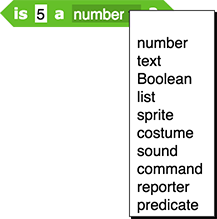
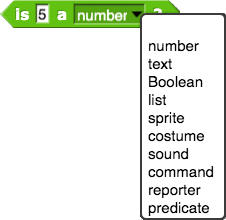
2.2 - new draft

Changed region(s): [[0.0, 0.0, 1.0, 1.0]]

diff --git a/cur/programming/2-complexity/2-data-structures-art/2-quizzes.html b/cur/programming/2-complexity/2-data-structures-art/2-quizzes.html
@@ -11,41 +11,100 @@
 
 	<body>
         <h2>Planning a Quiz App</h2>
-        <div class="todo">Alternative title: "Listing Questions and Answers for a Quiz App" --MF, 4/15/19</div>
         <div class="learn">
-            <p><strong>On this page,</strong> you will begin to develop a quiz app by creating a structure to pair the questions with their answers.</p>
+            <p><strong>On this page,</strong> you will begin to develop a quiz app by creating an <em>abstract data type</em> to pair the questions with their answers.</p>
         </div>
         
         <div class="forYouToDo" id="first">
 			<ol>
-                <li><img class="inline" src="/bjc-r/img/icons/talk-with-your-partner.png" alt="Talk with Your Partner" title="Talk with Your Partner" />
-Decide what type of quiz you would like to build, and write three to five questions and their correct answers.</li>
+                <li><img class="inline" src="/bjc-r/img/icons/talk-with-your-partner.png" alt="Talk with Your Partner" title="Talk with Your Partner" />Decide what type of quiz you would like to build, and write three to five questions and their correct answers.</li>
+                <li><img class="inline" src="/bjc-r/img/icons/take-turns-speaking-mini.gif" alt="Take turns speaking" title="Take turns speaking">Read the following section, opening all the links and carefully reading all the code as you go...</li>
 			</ol>
 		</div>
         
+        <div class="vocab">
+            <p>The <strong>index</strong> of an item in a list its unique position number in the list.</p>
+            <div class="todo">AAP-1.C.3 (partial). We address the part about strings on <a href="http://localhost/bjc-r/cur/programming/2-complexity/3-predicates/3-solving-word-puzzle.html?topic=nyc_bjc%2F2-conditionals-abstraction.topic&course=bjc4nyc.html&novideo&noassignment">2.3.3</a>. --MF, 12/19/18</div>
+        </div>
         <p>
-            You'll use a list to store your quiz items in a variable. You <em>could</em> just put all the questions and their answers in a list like this and then use <img src="/bjc-r/img/blocks/item-empty-full-size.png" height="35" alt="item () of 'list input slot'" title="item () of 'list input slot'"> to retrieve each question and answer:  <br />
-            <img class="indent" src="/bjc-r/img/2-complexity/quiz-questions-list.png" alt="set (computer science quiz) to (list (What is the computer science term for looping or repetition?) (iteration) (What is the name for the abstraction in a program that can hold a value?) (variable) (What kind of variable is available only in the part of the program where it is defined?) (local variable))" title="set (computer science quiz) to (list (What is the computer science term for looping or repetition?) (iteration) (What is the name for the abstraction in a program that can hold a value?) (variable) (What kind of variable is available only in the part of the program where it is defined?) (local variable))"><br />
+            You'll use a list to store your quiz items in a variable. You <em>could</em> just <a href="#hint-solidlist" data-toggle="collapse" title="put all the questions and their answers in a list like this">put all the questions and their answers in a list like this</a> and then use <img src="/bjc-r/img/blocks/item-empty-full-size.png" height="35" alt="item () of 'list input slot'" title="item () of 'list input slot'"> to retrieve each question and answer using its index.
+            <div id="hint-solidlist" class="collapse"><img class="indent" src="/bjc-r/img/2-complexity/quiz-questions-list.png" alt="set (computer science quiz) to (list (What is the computer science term for looping or repetition?) (iteration) (What is the name for the abstraction in a program that can hold a value?) (variable) (What kind of variable is available only in the part of the program where it is defined?) (local variable))" title="set (computer science quiz) to (list (What is the computer science term for looping or repetition?) (iteration) (What is the name for the abstraction in a program that can hold a value?) (variable) (What kind of variable is available only in the part of the program where it is defined?) (local variable))"></div>
             That might be ok for the first quiz item (you could use <img class="inline nopadtb" src="/bjc-r/img/2-complexity/item-1-of-csquiz.png" alt="item (1) of (computer science quiz)" title="item (1) of (computer science quiz)"> to get the first question and <img class="inline nopadtb" src="/bjc-r/img/2-complexity/item-2-of-csquiz.png" alt="item (2) of (computer science quiz)" title="item (2) of (computer science quiz)"> to get the first answer), but for the third quiz item, you'd need list items five and six, and that approach is inelegant and prone to errors.
         </p>
         <div class="vocab">: <strong>Sublist</strong> 
             <p>A <strong>sublist</strong> is a list inside another list.</p>
         </div>
         <p>
-            Instead, you can use a <em>sublist</em> for each question/answer pair. Then you could choose one of those lists at a time to work with.<br />
-            <img class="indent" src="/bjc-r/img/2-complexity/quiz-questions-list-of-lists.png" alt="set (computer science quiz) to (list (list (What is the computer science term for looping or repetition?) (iteration)) (list (What is the name for the abstraction in a program that can hold a value?) (variable)) (list (What kind of variable is available only in the part of the program where it is defined?) (local variable)))" title="set (computer science quiz) to (list (list (What is the computer science term for looping or repetition?) (iteration)) (list (What is the name for the abstraction in a program that can hold a value?) (variable)) (list (What kind of variable is available only in the part of the program where it is defined?) (local variable)))">
+            Instead, <a href="#hint-sublist" data-toggle="collapse" title="you can use a sublist for each question/answer pair">you can use a <em>sublist</em> for each question/answer pair</a>. Then you could choose just one of those lists at a time to work with.
+            <div id="hint-sublist" class="collapse">
+                <img class="indent" src="/bjc-r/img/2-complexity/quiz-questions-list-of-lists.png" alt="set (computer science quiz) to (list (list (What is the computer science term for looping or repetition?) (iteration)) (list (What is the name for the abstraction in a program that can hold a value?) (variable)) (list (What kind of variable is available only in the part of the program where it is defined?) (local variable)))" title="set (computer science quiz) to (list (list (What is the computer science term for looping or repetition?) (iteration)) (list (What is the name for the abstraction in a program that can hold a value?) (variable)) (list (What kind of variable is available only in the part of the program where it is defined?) (local variable)))">
+                <div class="comment">Image needs alt/title text. --MF, 7/3/19</div>
+                <img class="indent" src="/bjc-r/img/2-complexity/item-of-item-of-script.png" alt="" title="" />
+            </div>
         </p>
-        <div class="todo">Give them a snippet of code with ask and answer (but not foreach) and an item (item()) to sell that there is a better way.</div>
         <p>
-            This approach can be further improved with abstraction. You could create a custom block to make your code easier to read.<br />
-            <img class="indent" src="/bjc-r/img/2-complexity/quiz-questions-constructor-definition.png" alt="quiz item, question: (question) answer: (answer) {report (list (question) (answer))}" title="quiz item, question: (question) answer: (answer) {report (list (question) (answer))}">
-            <img class="indent" src="/bjc-r/img/2-complexity/quiz-questions-list-of-adts.png" alt="set (computer science quiz) to (list (question: (What is the computer science term for looping or repetition?) answer: (iteration)) (question: (What is the name for the abstraction in a program that can hold a value?) answer: (variable)) (question: (What kind of variable is available only in the part of the program where it is defined?) answer: (local variable)))" title="set (computer science quiz) to (list (question: (What is the computer science term for looping or repetition?) answer: (iteration)) (question: (What is the name for the abstraction in a program that can hold a value?) answer: (variable)) (question: (What kind of variable is available only in the part of the program where it is defined?) answer: (local variable)))">
+            But with nested lists (lists with sublists) it can be hard to keep track of the input numbers for <code>item of</code>, so <a href="#hint-useabstraction" data-toggle="collapse" title="a better way is to use abstraction to organize the quiz items">a better way is to <em>use abstraction</em> to organize the quiz items</a>. 
+            <div id="hint-useabstraction" class="collapse">
+                <img class="indent" src="/bjc-r/img/2-complexity/quiz-questions-list-of-adts.png" alt="set (computer science quiz) to (list (question: (What is the computer science term for looping or repetition?) answer: (iteration)) (question: (What is the name for the abstraction in a program that can hold a value?) answer: (variable)) (question: (What kind of variable is available only in the part of the program where it is defined?) answer: (local variable)))" title="set (computer science quiz) to (list (question: (What is the computer science term for looping or repetition?) answer: (iteration)) (question: (What is the name for the abstraction in a program that can hold a value?) answer: (variable)) (question: (What kind of variable is available only in the part of the program where it is defined?) answer: (local variable)))">
+                <div class="comment">Image needs alt/title text. --MF, 7/3/19</div>
+                <img class="indent" src="/bjc-r/img/2-complexity/abstracted-quiz-script.png" alt="" title="" />
+            </div>
         </p>
-    <div class="todo">The alt/title text on the second image just above needs attention. Also, should that image have fewer questions? --MF, 7/2/19</div>
-        <div class="todo">constructor makes it certain that every time you use it, you build the thing in the right order.</div>
+        <p>
+            These abstractions just hide the <code>list</code> and <code>item of</code> blocks, so they aren't complicated to build, but they can make your code <em>much</em> easier to write, read, and debug.<br />
+        </p>
+        <div class="vocabFullWidth">
+            <ul>
+                <li>
+                    The <img class="inline" src="/bjc-r/img/2-complexity/quiz-item-constructor.png" alt="quiz item, question: () answer: ()" title="quiz item, question: () answer: ()" /> block is the <strong>constructor</strong>; it <em>constructs</em> the data structure.<br />
+                    <img class="indent" src="/bjc-r/img/2-complexity/quiz-questions-constructor-definition.png" alt="quiz item, question: (question) answer: (answer) {report (list (question) (answer))}" title="quiz item, question: (question) answer: (answer) {report (list (question) (answer))}">
+                </li>
+                <li>
+                    The <img class="inline" src="/bjc-r/img/2-complexity/question-selector.png" alt="question from quiz item: ()" title="question from quiz item: ()"/> and <img class="inline" src="/bjc-r/img/2-complexity/answer-selector.png" alt="answer from quiz item: ()" title="answer from quiz item: ()"/> blocks are the <strong>selectors</strong>; they each <em>select</em> one piece of the data structure.<br />
+                    <img class="indent" src="/bjc-r/img/2-complexity/question-definition.png" alt="question from quiz item: (quiz item) {report (item (1) of (quiz item)}" title="question from quiz item: (quiz item) {report (item (1) of (quiz item)}" />
+                    <img class="indent" src="/bjc-r/img/2-complexity/answer-definition.png" alt="answer from quiz item: (quiz item) {report (item (2) of (quiz item)}" title="answer from quiz item: (quiz item) {report (item (2) of (quiz item)}" />
+                </li>
+                <li>
+                    The constructor and selector together make up the <code>quiz item</code> <em>abstract data type</em>. An <strong>abstract data type</strong> (or <strong>ADT</strong>) is a custom data type that's meaningful to your program. It's not built into the language; you develop it as you code. </li><li>
+                    A <strong>data type</strong> is  what type of data something is (number, text string, list, etc.). For example, the data type for the first input to <img src="/bjc-r/img/blocks/item.png" height="35" alt="item (1) of ()" title="item (1) of ()"> is number and the data type for its second is list.
+                </li>
+                <li>
+                    Each programming language provides some <strong>primitive data types</strong> (data types that are built-in). For example, Snap<em>!</em> provides numbers, text (words and sentences), Booleans (true or false), lists, and some you haven't yet used as data (like sprites and costumes). <a href="#hint-target" data-toggle="collapse" title="This block's pull-down menu shows all of Snap!'s primitive types.">This block's pull-down menu shows all of Snap<em>!</em>'s primitive types.</a>
+                    <div class="comment"></div>
+                    <div id="hint-target" class="collapse">
+                    <img class="indent" src="/bjc-r/img/2-complexity/isa-menu.png" alt="primitive types: number, text, Boolean, list, sprite, command, reporter, predicate" title="primitive types: number, text, Boolean, list, sprite, command, reporter, predicate"/>
+                    </div>
+                </li>
+                <li><strong>Data abstraction</strong> is the creation and use of abstract data types in a program.</li>
+            </ul>
+            <div class="endnote">
+                <p>The word "abstract" is often used casually to mean something <em>harder</em> to understand or more complex, but in computer science, its meaning is almost the opposite. ADTs are things that you, the programmer, create to make your program <em>easier</em> for you and others to read, debug, and improve.</p>
+            </div>        
+        </div>
+        <div class="todo">The constructor makes it certain that every time you use it, you build the thing in the right order.</div>
         
-        
-        
+        <div class="forYouToDo">
+            <ol start="3">
+                <li>Build the custom <code>quiz item</code> abstract data type (both the constructor and the two selectors).</li>
+                <div class="narrower">
+                    <h4><strong>Specifying an Input Type</strong></h4>
+                    <p>You can make your blocks show what type of data they expect as inputs. It's not necessary in Snap<em>!</em> but, like assigning a color to a block, it can be a helpful reminder of what the block does and what type of input it expects. You've already seen input slots of several shapes, indicating different expected data types. </p>
+                    <p>
+                        After creating the title and naming the input,
+                        <ol style="list-style-type:lower-alpha">
+                            <li>
+                                Click on the arrow to the right of the input name:<br />
+                                <img class="indent" src="/bjc-r/img/2-complexity/create-input-name-right_arrow.png" height="125" alt="create input name right arrow" title="create input name right arrow" />
+                            </li>
+                            <li>Choose the data type you want for that input. (For this project, you'll use the "text" and "list" input types.)</li>
+                            <li>Click OK.</li>
+                        </ol>
+                    </p>
+                </div>
+                <li>Create a global variable to store your quiz items and initialize it as a list using your constructor. (Don't type everything again; use copy and paste.)</li>
+                <li>Test both the selectors for different items in your list of quiz items, and debug any problems.</li>
+            </ol>
+        </div>
         
         
 		
@@ -54,7 +113,6 @@ Decide what type of quiz you would like to build, and write three to five questi
             <hr />
             <h1>Old version below</h1>
             <hr />
-        </div>
         
         
         <div class="todo">I think they need some kind of solid experience with <code>item of</code> before we abstract it away with an ADT. Gossip was just an introduction and it only used random, so we weren't really thinking about accessing any particular item. I believe something else is needed here before ADTs. --MF, 4/15/19</div>
@@ -109,14 +167,6 @@ Decide what type of quiz you would like to build, and write three to five questi
             </ul>
         </div>
         
-        <div class="todo">Shouldn't <code>item of</code> be taught as EBF? --MF, 7/2/19
-            <div class="forYouToDo">
-                <ol start="3">
-                    <li>Experiment with different inputs to the <img class="inline nopadtb" src="/bjc-r/img/blocks/item-empty-full-size.png" alt="item () of 'list input slot'" title="item () of 'list input slot'" /> block to access different rows in the dataset. (This was pulled from U5 and would need to be adapted here.)</li>
-                </ol>
-            </div>
-        </div>
-
         <div class="dialogue">
             <div class="stagedir">
                 <p>The students are discussing how to store each of the quiz questions together with their matching answers.</p>
@@ -188,6 +238,7 @@ Decide what type of quiz you would like to build, and write three to five questi
                 <div class="endnote">
                     You can change the input slot types for the constructor and selectors in the "If There Is Time" activity below.<br />
                     <img class="indent" src="/bjc-r/img/2-complexity/question-answer-constructor.png" alt="question: () answer: ()" title="question: () answer: ()" />
+                    <div class="comment">These images have been changed, so the alt/title text is now wrong here. --MF, 7/3/19</div>
                     <img class="indent" src="/bjc-r/img/2-complexity/question-selector.png" alt="question from ()" title="question from ()"/>
                     <img class="indent" src="/bjc-r/img/2-complexity/answer-selector.png" alt="answer from ()" title="answer from ()"/>
                     <div class="todo">Are we certain this shouldn't be a FYTD? With ADTs, I don't think it's decoration. Highlighting the expected input type helps prevent bugs. --MF, 7/2/19</div>
@@ -232,6 +283,7 @@ Decide what type of quiz you would like to build, and write three to five questi
                     </div>
                 </div>
             </ol>
+        </div>
         </div>
     
 

diff --git a/cur/programming/2-complexity/2-data-structures-art/3-traversing-list.html b/cur/programming/2-complexity/2-data-structures-art/3-traversing-list.html
@@ -10,8 +10,7 @@
     </head> 
 
 	<body>
-        <h2>Checking Each Quiz Answer</h2>
-        <div class="todo">Another possible title: "Traversing the List of Quiz Items with <code>For Each</code>" --MF, 4/15/19</div>
+        <h2>Checking Each Quiz Answer using <code>For Each</code></h2>
 
         <div class="learn">
             <p>
@@ -24,7 +23,7 @@
             <div class="stagedir">
                 The students are considering how to use their abstract data type as they develop the code for their project. 
             </div>
-            <div><span>Alphie:</span> We can use our <img class="inline" src="/bjc-r/img/2-complexity/question-selector-notype.png" alt="question from ()" title="question from ()"/> and <img class="inline" src="/bjc-r/img/2-complexity/answer-selector-notype.png" alt="answer from ()" title="answer from ()"/> selectors to get the question and answer for any pair in our list. But how do we get the pair out of the list in the first place?</div>
+            <div><span>Alphie:</span> We can use our <img class="" src="/bjc-r/img/2-complexity/question-selector.png" alt="question from quiz item: ()" title="question from quiz item: ()"/> and <img class="" src="/bjc-r/img/2-complexity/answer-selector.png" alt="answer from quiz item: ()" title="answer from quiz item: ()"/> selectors to get the question and answer for quiz item in our list. But how do we get the quiz item <em>out</em> of the list in the first place?</div>
             <div>
                 <span>Gamal:</span> Maybe we can use <code>item of</code> inside a <code>for</code> loop and use the index from the <code>for</code> loop as the first input to <code>item of</code>, like this:<br />
                 <img class="indent" src="/bjc-r/img/2-complexity/for-with-item-of.png" alt="for (i) = (1) to (4) {
@@ -34,13 +33,35 @@
 }" />
             </div>
             <div>
-<!--                <img class="imageRight" src="/bjc-r/img/icons/import-tools-mini.png" alt="Import Tools" title="Import Tools" />
-  -->
-                <span>Betsy:</span> Yeah, we could, but that's a little hard to read with that index variable to keep track of, and if we add more questions, we'll have to update the number 4 that tells us when to end the loop. I bet we can use <img src="/bjc-r/img/2-complexity/for-each-(item)-of().png" height="68" alt="for each (item) of 'list input slot' {}" title="for each (item) of 'list input slot' {}"> to do most of that. We could even rename <var>item</var> something logical like <var>question/answer pair</var>. Then the code inside will run once for each question/answer pair in our quiz item list.
+                <span>Betsy:</span> Yeah, we could, but that's a little hard to read with that index variable to keep track of, and if we add more questions, we'll have to update the number 4 that tells us when to end the loop. I bet we can use <img src="/bjc-r/img/2-complexity/for-each-(item)-of().png" height="68" alt="for each (item) of 'list input slot' {}" title="for each (item) of 'list input slot' {}"> to <em>traverse</em> the list. We could even rename <var>item</var> something logical like <var>quiz item</var>. Then the code inside will run once for each quiz item in our list.
             </div>
-            <div><span>Alphie:</span> And the code will be more readable when we want to do something like asking the question or checking the answer from a pair.</div>
+            <div><span>Alphie:</span> And the code will be more readable when we want to do something like asking the question or checking the answer from a pair!</div>
         </div>
 
+        <div class="vocabFullWidth">: <strong>Traversing a List</strong>
+            <div class="comment">AAP-2.O.2</div>
+            <p><strong>Traversing</strong> a list means looking at each item of the list. <code>For each</code> is iterative (that is, it's repetitive, like <code>for</code>, which also traverses lists). But unlike <code>for</code>, <code>for each</code> traverses the list <em>without using index numbers</em>.</p>
+            <div class="todo">This language should be tightened up. For example, it's not clear whether <code>for</code> traverses a list. --MF, 4/15/19<br />
+			I changed FOR to FOREVER, so clearly not traversing a list.  Does that fix it?  -bh
+            <p>No, that makes things worse because the end of the sentence won't make sense. --MF, 7/3/19</p></div>
+        </div>
+
+        <div class="forYouToDo">
+            <ol>
+                <li>
+                    Use <code>for each</code> to <em>traverse</em> your list, asking each quiz question, checking each answer, and letting the user know if they are right or wrong on each item.
+                </li>
+                <li>Take your quiz a few times as a user would, and work out any problems with the code. Then, give your quiz to a friend.</li>
+            </ol>
+        </div>
+        
+        <div class="ifTime">
+            <ol start="3">
+                <li>If the user is wrong, don't just let them know, but tell them the right answer too.</li>
+                <li>Use a script variable to keep track of the player's score and report it at the end of the quiz.</li>
+            </ol>
+        </div>
+        
         <div class="examFullWidth AP-only">
             <div class="comment">AAP-2.O.3</div>
             <div class="pseudop">
@@ -55,36 +76,6 @@
             <div class="todo">We could add an APblocktran image here too. --MF, 4/19/19</div>
         </div>
 
-        <div class="vocabFullWidth">: <strong>Traversing a List</strong>
-            <div class="comment">AAP-2.O.2</div>
-            <p><strong>Traversing</strong> a list means looking at each item of the list. <code>For each</code> is iterative (that is, repetitive, like <code>forever</code>), but <code>for each</code> traverses the list <em>without using index numbers</em>.</p>
-            <div class="todo">This language should be tightened up. For example, it's not clear whether <code>for</code> traverses a list. --MF, 4/15/19<br />
-			I changed FOR to FOREVER, so clearly not traversing a list.  Does that fix it?  -bh</div>
-        </div>
-
-        <div class="forYouToDo">
-            <ol>
-                <li>
-<!--                    <img class="inline" src="/bjc-r/img/icons/import-tools.png" alt="Import Tools" title="Import Tools" />
-  -->
-                    Use <code>for each</code> to <em>traverse</em> your list, asking each question, checking each answer, and letting the user know if they are right or wrong on each item.
-                </li>
-<!--                <div class="endnote">
-                    Like <code>for</code>, the <code>for each</code> block isn't installed automatically; you'll need to select "Import Tools..." from the Snap<em>!</em> File (<img src="/bjc-r/img/1-introduction/file_button.png" style="height:1.5em;" alt="File button" title="File button"/>) menu. <br />
-                </div>
-  -->
-                <li>Take your quiz a few times and work out any problems with the code. Then give your quiz to a friend.</li>
-            </ol>
-        </div>
-        
-        <div class="ifTime">
-            <ol start="3">
-                <li>If the user is wrong, don't just let them know, but tell them the right answer too.</li>
-                <li>Use a script variable to keep track of the player's score and report it at the end of the quiz.</li>
-            </ol>
-        </div>
-        
-        
         <div class="forYouToDo">
 			<ol start="5">
                 <li>These questions are similar to those you will see on the AP CSP exam.

diff --git a/cur/programming/2-complexity/2-data-structures-art/1-shopping-list-app.html b/cur/programming/2-complexity/2-data-structures-art/1-shopping-list-app.html
@@ -11,6 +11,7 @@
 
 	<body>
         <h2>Shopping List App</h2>
+        <div class="todo">Brian, I moved two exam boxes here from the next page. --MF, 7/3/19</div>
         <div class="learn">
             <p><strong>In this lab,</strong> you will create tools for storing and accessing data.</p>
             <p><strong>On this page,</strong> you will create a shopping list app. </p>
@@ -19,8 +20,15 @@
         <div class="sidenote">Some programming languages use the word <em>array</em> instead of <em>list</em>. </div>
         <p>
             Many computer applications—contact lists, playlists, calendars, reminders—involve manipulating <em>lists</em> of information using tools that search, sort, or change the items on the list. You've worked with lists before as you customized the gossip project.<br />
-            <img class="indent" src="/bjc-r/img/1-introduction/list-from-who.png" alt="list{Senora, Ms. C, my cat, Hannah, Jake}" title="list{Senora, Ms. C, my cat, Hannah, Jake}" />
         </p>
+        
+        <div class="examFullWidth">
+            <ul>
+                <div class="comment">AAP-1.C.1</div>
+                <li>The list expression <img class="inline" src="/bjc-r/img/1-introduction/list-from-who.png" alt="list{Senora, Ms. C, my cat, Hannah, Jake}" title="list{Senora, Ms. C, my cat, Hannah, Jake}" /> would be written as <pre class="inline">[Senora, Ms. C, my cat, Hannah, Jake]</pre>.</li>
+                <div class="todo">We could add APblocktran images here too. --MF, 4/19/19</div>
+            </ul>
+        </div>
                
         
         <div class="forYouToDo" id="first">
@@ -36,12 +44,20 @@
                 </li>
             </ol>
         </div>
-    
-        <div class="vocabBig">
-            <p>An <strong>element</strong> is another name for an item in a list. It's an individual value in a list.</p>
-            <div class="todo">AAP-1.C.2</div>
+        
+        <div class="examFullWidth">
+            <ul>
+                <div class="comment">AAP-1.D.7</div>
+                <li>The assignment instruction <img class="inline" src="/bjc-r/img/2-complexity/example-list-assignment.png" alt="set (mylist) to {7, nine, apples, spaghetti}" title="set (mylist) to {7, nine, apples, spaghetti}" /> would be written as <pre class="inline">myList &leftarrow; [7, nine, apples, spaghetti]</pre>.</li>
+                <div class="todo">We could add APblocktran images here too. --MF, 4/19/19</div>
+            </ul>
         </div>
+        
         <p>
+            <div class="vocabBig">
+                <p>An <strong>element</strong> is another name for an item in a list. It's an individual value in a list.</p>
+                <div class="todo">AAP-1.C.2</div>
+            </div>
             You can use the <img class="inline" src="/bjc-r/img/blocks/insert.png" alt="insert (thing) at (1) of 'list input slot'" title="insert (thing) at (1) of 'list input slot'" /> or <img class="inline" src="/bjc-r/img/blocks/add.png" alt="add (thing) to 'list input slot'" title="add (thing) to 'list input slot'" /> block to add elements to a list. 
             <ul>
                 <li><code>Insert</code> puts the new item <em>before</em> the place you specify.</li>
